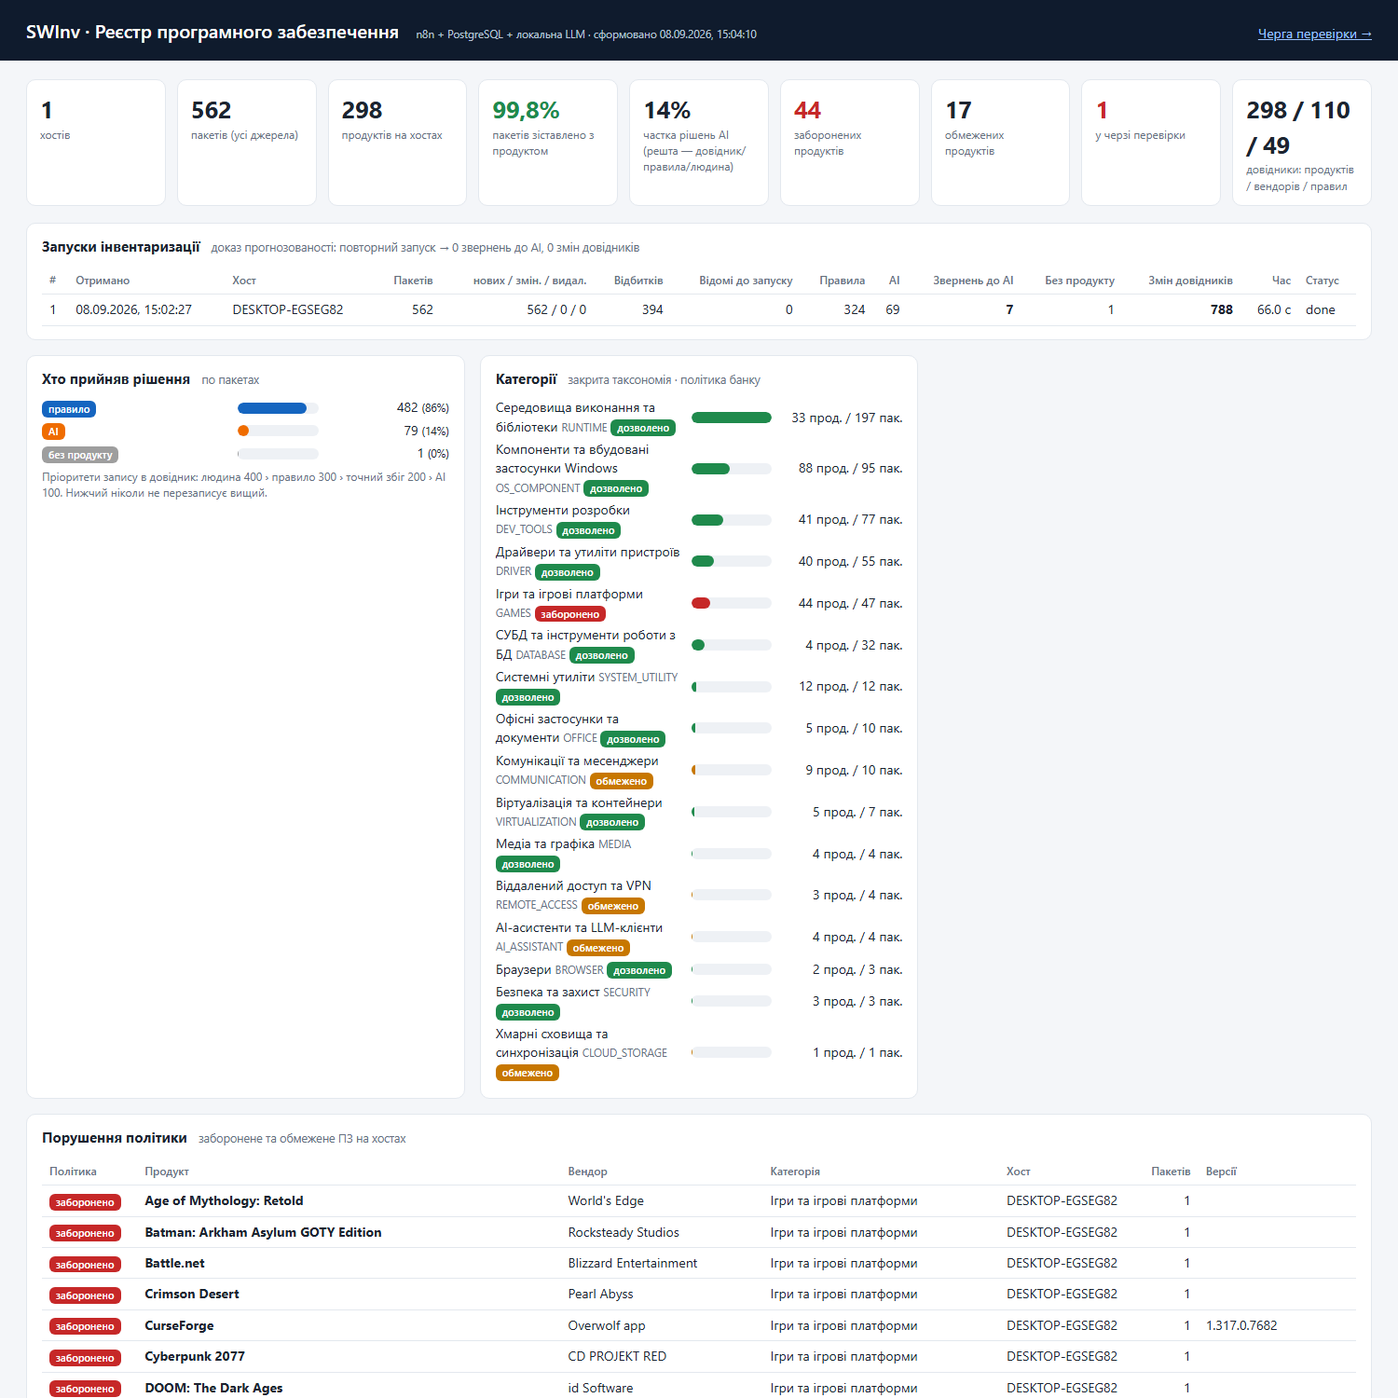
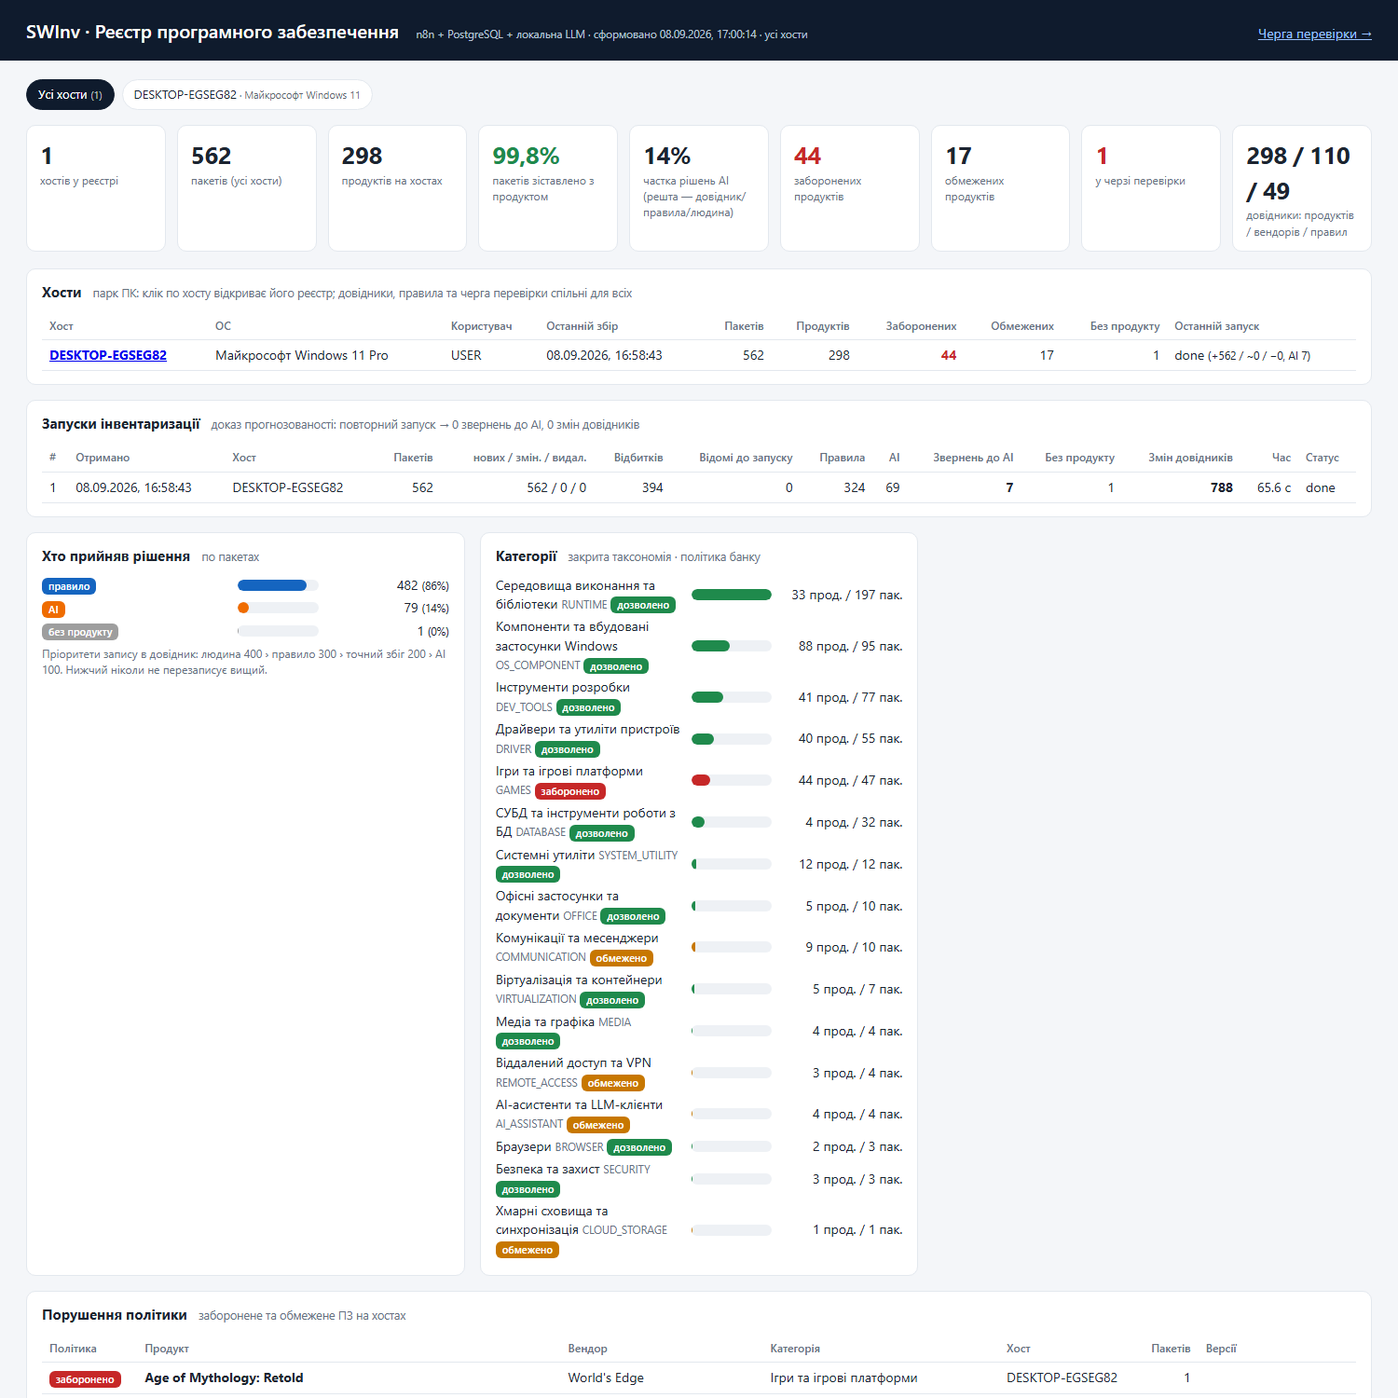
Fleet navigation on the dashboard: host selector, hosts table, per-host change log
- swinv_dashboard(p_host_id) filters host-scoped sections; dictionaries, review queue and audit stay shared
- dashboard: host switcher (?host=<id>), hosts overview table, 'changes since last collection' card
- docs: README fleet screenshot, DEMO/ARCHITECTURE updates

diff --git a/n8n/code/dashboard.js b/n8n/code/dashboard.js
@@ -70,6 +70,27 @@ const vend = (d.vendors_top || []).map(v => `<li>${esc(v.vendor)} <small>— ${n
 
 const aiShare = (() => { const ai = mts.find(x => x.match_type === 'ai'); return ai ? (100 * ai.packages / mtTotal).toFixed(0) : '0'; })();
 
+// ---- парк ПК: селектор хоста, таблиця хостів, зміни за останній збір обраного хоста
+const hosts = d.hosts || [];
+const hostFilter = d.host_filter;
+const host = d.host || null;
+const scopeLabel = host ? `хост ${esc(host.hostname)}` : 'усі хости';
+const hostNav = `<nav class="hosts"><a class="${hostFilter ? '' : 'on'}" href="?">Усі хости <small>(${hosts.length})</small></a>` +
+  hosts.map(h => `<a class="${String(h.id) === String(hostFilter) ? 'on' : ''}" href="?host=${h.id}">${esc(h.hostname)}<small> · ${esc((h.os_name || '').split(' ').slice(0, 3).join(' '))}</small></a>`).join('') + `</nav>`;
+const hostRows = hosts.map(h => { const lr = h.last_run || {}; const zero = lr.status === 'done' && lr.ai_calls === 0 && lr.dict_changes === 0 && lr.added === 0 && lr.changed === 0 && lr.removed === 0;
+  return `<tr class="${String(h.id) === String(hostFilter) ? 'sel' : ''}"><td><a href="?host=${h.id}"><b>${esc(h.hostname)}</b></a></td><td>${esc(h.os_name || '—')}</td><td>${esc(h.last_user || '—')}</td>
+  <td>${dt(h.last_seen)}</td><td class="n">${num(h.packages)}</td><td class="n">${num(h.software)}</td>
+  <td class="n" style="color:${h.prohibited > 0 ? '#c62828' : 'inherit'}"><b>${num(h.prohibited)}</b></td><td class="n">${num(h.restricted)}</td><td class="n">${num(h.unresolved)}</td>
+  <td>${lr.status ? esc(lr.status) : '—'}${zero ? ' · <b>0 змін</b>' : ''}${lr.status ? ` <small>(+${num(lr.added)} / ~${num(lr.changed)} / −${num(lr.removed)}, AI ${num(lr.ai_calls)})</small>` : ''}</td></tr>`; }).join('');
+const ch = d.changes || null;
+const chList = (arr, cls) => (arr || []).map(p => `<li class="${cls}">${esc(p.name)} <small>${esc(p.version_prev ? (p.version_prev + ' → ' + (p.version || '')) : (p.version || ''))} · ${esc(p.source)}${p.publisher ? ' · ' + esc(p.publisher) : ''}</small></li>`).join('');
+const changesCard = host && ch ? `<div class="card wide"><h2>Зміни на хості за останній збір <small>${dt(ch.received_at)} · ${esc(host.os_name || '')} · ${esc(host.manufacturer || '')} ${esc(host.model || '')}</small></h2>
+  <div class="cols">
+   <div><h3>Нові <small>${num((ch.added || []).length)}</small></h3><ul class="chg">${chList(ch.added, 'add') || '<li class="mut">немає</li>'}</ul></div>
+   <div><h3>Змінили версію <small>${num((ch.changed || []).length)}</small></h3><ul class="chg">${chList(ch.changed, 'chg') || '<li class="mut">немає</li>'}</ul></div>
+   <div><h3>Зникли <small>${num((ch.removed || []).length)}</small></h3><ul class="chg">${chList(ch.removed, 'del') || '<li class="mut">немає</li>'}</ul></div>
+  </div><div class="note">Показано до 40 записів у кожній колонці. Зниклі пакети лишаються в історії (present = false), рішення довідника зберігаються.</div></div>` : '';
+
 const html = `<!doctype html><html lang="uk"><head><meta charset="utf-8"><title>SWInv · Реєстр ПЗ</title>
 <meta name="viewport" content="width=device-width, initial-scale=1">
 <style>
@@ -94,14 +115,19 @@ tr.zero td{background:#eefaf1}
 .val{text-align:right;white-space:nowrap}.lbl small{color:var(--mut)}
 code{font:12px ui-monospace,Consolas,monospace;background:#f1f3f6;padding:1px 4px;border-radius:4px}
 .note{color:var(--mut);font-size:12px;margin-top:6px}ul.v{columns:2;margin:0;padding-left:18px}
+nav.hosts{display:flex;flex-wrap:wrap;gap:8px;margin:0 0 16px}nav.hosts a{display:inline-block;padding:6px 12px;border:1px solid var(--line);border-radius:20px;background:var(--card);color:var(--ink);text-decoration:none;font-size:13px}
+nav.hosts a.on{background:#0f1b2d;color:#fff;border-color:#0f1b2d}nav.hosts a small{color:inherit;opacity:.7}
+tr.sel td{background:#eef3ff}.cols{display:grid;grid-template-columns:repeat(3,1fr);gap:14px}.cols h3{margin:4px 0 6px;font-size:13px}.cols h3 small{color:var(--mut);font-weight:400}
+ul.chg{margin:0;padding-left:16px;max-height:320px;overflow:auto}ul.chg li{margin:2px 0}ul.chg li small{color:var(--mut)}li.add{color:#1f8a4c}li.del{color:#c62828}li.chg{color:#c77700}li.mut{color:var(--mut);list-style:none;margin-left:-16px}
 </style></head><body>
-<header><h1>SWInv · Реєстр програмного забезпечення</h1><small>n8n + PostgreSQL + локальна LLM · сформовано ${dt(d.generated_at)}</small>
+<header><h1>SWInv · Реєстр програмного забезпечення</h1><small>n8n + PostgreSQL + локальна LLM · сформовано ${dt(d.generated_at)} · ${scopeLabel}</small>
 <a href="/form/inventory/review">Черга перевірки →</a></header>
 <main>
+${hostNav}
 <div class="kpis">
- <div class="kpi"><div class="v">${num(k.hosts)}</div><div class="l">хостів</div></div>
- <div class="kpi"><div class="v">${num(k.packages)}</div><div class="l">пакетів (усі джерела)</div></div>
- <div class="kpi"><div class="v">${num(k.software_on_hosts)}</div><div class="l">продуктів на хостах</div></div>
+ <div class="kpi"><div class="v">${num(k.hosts)}</div><div class="l">хостів у реєстрі</div></div>
+ <div class="kpi"><div class="v">${num(k.packages)}</div><div class="l">пакетів (${host ? 'цей хост' : 'усі хости'})</div></div>
+ <div class="kpi"><div class="v">${num(k.software_on_hosts)}</div><div class="l">продуктів ${host ? 'на хості' : 'на хостах'}</div></div>
  <div class="kpi ok"><div class="v">${num(k.coverage_pct)}%</div><div class="l">пакетів зіставлено з продуктом</div></div>
  <div class="kpi"><div class="v">${aiShare}%</div><div class="l">частка рішень AI (решта — довідник/правила/людина)</div></div>
  <div class="kpi ${k.violations > 0 ? 'warn' : 'ok'}"><div class="v">${num(k.violations)}</div><div class="l">заборонених продуктів</div></div>
@@ -110,6 +136,10 @@ code{font:12px ui-monospace,Consolas,monospace;background:#f1f3f6;padding:1px 4p
  <div class="kpi"><div class="v">${num(k.software)} / ${num(k.vendors)} / ${num(k.rules)}</div><div class="l">довідники: продуктів / вендорів / правил</div></div>
 </div>
 <div class="grid">
+ <div class="card wide"><h2>Хости <small>парк ПК: клік по хосту відкриває його реєстр; довідники, правила та черга перевірки спільні для всіх</small></h2>
+  <table><thead><tr><th>Хост</th><th>ОС</th><th>Користувач</th><th>Останній збір</th><th class="n">Пакетів</th><th class="n">Продуктів</th><th class="n">Заборонених</th><th class="n">Обмежених</th><th class="n">Без продукту</th><th>Останній запуск</th></tr></thead>
+  <tbody>${hostRows || '<tr><td colspan="10">Хостів ще немає</td></tr>'}</tbody></table></div>
+ ${changesCard}
  <div class="card wide"><h2>Запуски інвентаризації <small>доказ прогнозованості: повторний запуск → 0 звернень до AI, 0 змін довідників</small></h2>
   <table><thead><tr><th>#</th><th>Отримано</th><th>Хост</th><th class="n">Пакетів</th><th class="n">нових / змін. / видал.</th><th class="n">Відбитків</th><th class="n">Відомі до запуску</th><th class="n">Правила</th><th class="n">AI</th><th class="n">Звернень до AI</th><th class="n">Без продукту</th><th class="n">Змін довідників</th><th class="n">Час</th><th>Статус</th></tr></thead>
   <tbody>${runRows || '<tr><td colspan="14">Запусків ще не було — запустіть collector/Collect-Inventory.ps1</td></tr>'}</tbody></table></div>

diff --git a/n8n/build_workflows.py b/n8n/build_workflows.py
@@ -507,7 +507,7 @@ def build_dashboard():
     n_wh = node('Webhook: GET /inventory/dashboard', 'n8n-nodes-base.webhook', 2.1,
                 {"httpMethod": "GET", "path": "inventory/dashboard", "responseMode": "responseNode", "options": {}},
                 0, Y, webhookId="swinv-inventory-dashboard-001")
-    n_data = pg('БД: дані дашборду (один JSON)', "SELECT swinv_dashboard() AS d", None, 260, Y)
+    n_data = pg('БД: дані дашборду (один JSON)', "SELECT swinv_dashboard($1::int) AS d", r"={{ [ ($json.query && $json.query.host && /^\d+$/.test(String($json.query.host))) ? Number($json.query.host) : null ] }}", 260, Y)
     n_render = code('Рендер HTML', JS_RENDER, 520, Y)
     n_resp = node('HTML-відповідь', 'n8n-nodes-base.respondToWebhook', 1.5,
                   {"respondWith": "text", "responseBody": "={{ $json.html }}",
@@ -516,13 +516,13 @@ def build_dashboard():
     n_wh2 = node('Webhook: GET /inventory/api/dashboard', 'n8n-nodes-base.webhook', 2.1,
                  {"httpMethod": "GET", "path": "inventory/api/dashboard", "responseMode": "responseNode", "options": {}},
                  0, Y + 220, webhookId="swinv-inventory-dashboard-api1")
-    n_data2 = pg('БД: дані дашборду (JSON API)', "SELECT swinv_dashboard() AS d", None, 260, Y + 220)
+    n_data2 = pg('БД: дані дашборду (JSON API)', "SELECT swinv_dashboard($1::int) AS d", r"={{ [ ($json.query && $json.query.host && /^\d+$/.test(String($json.query.host))) ? Number($json.query.host) : null ] }}", 260, Y + 220)
     n_resp2 = node('JSON-відповідь', 'n8n-nodes-base.respondToWebhook', 1.5,
                    {"respondWith": "json", "responseBody": "={{ JSON.stringify($json.d) }}",
                     "options": {"responseHeaders": {"entries": [{"name": "Content-Type", "value": "application/json; charset=utf-8"}]}}},
                    520, Y + 220)
     nodes += [n_wh, n_data, n_render, n_resp, n_wh2, n_data2, n_resp2]
-    nodes.append(sticky("## Дашборд реєстру ПЗ\nОдин виклик `swinv_dashboard()` → один JSON → HTML без зовнішніх залежностей (працює офлайн).\nHTML: /webhook/inventory/dashboard · JSON: /webhook/inventory/api/dashboard", -40, Y - 200, 820, 120, 3))
+    nodes.append(sticky("## Дашборд реєстру ПЗ\nОдин виклик `swinv_dashboard()` → один JSON → HTML без зовнішніх залежностей (працює офлайн).\nHTML: /webhook/inventory/dashboard (?host=<id> — один хост) · JSON: /webhook/inventory/api/dashboard", -40, Y - 200, 820, 120, 3))
     c = conns
     connect(c, n_wh['name'], n_data['name'])
     connect(c, n_data['name'], n_render['name'])

diff --git a/README.md b/README.md
@@ -7,8 +7,13 @@
 - **Прогнозованість, яку видно.** Повторний запуск на тому ж ПК: 0 нових / 0 змінених / 0 видалених, 0 звернень до AI, 0 змін довідників — рядок підсвічено зеленим на дашборді.
 - **Довідники живуть у БД і оновлюються за правилами.** Пріоритети рішень human 400 › seed 350 › rule 300 › exact 200 › ai 100, upsert із захистом від пониження, аудит кожної зміни тригером БД, рішення людини перетворюються на правила.
 - **On-prem за замовчуванням.** qwen2.5:14b на локальній GPU, temperature 0, JSON-режим; дані не залишають машину. Перехід на хмарну модель — одна нода на канвасі (вже стоїть поруч, вимкнена).
+- **Парк ПК, а не один хост.** Windows- і Linux/macOS-колектори з одним контрактом, спільні довідники; дашборд має перемикач хостів, таблицю парку і блок «що змінилось на хості за останній збір».
 
 ![Дашборд SWInv](docs/dashboard.png)
+
+Парк із двох хостів (Windows + Linux-контейнер) на одному дашборді зі спільними довідниками:
+
+![Дашборд SWInv: парк хостів](docs/dashboard-hosts.png)
 
 ---
 
@@ -95,8 +100,8 @@ GPU для Ollama вмикається окремим файлом `docker-compo
 | Що | URL |
 |---|---|
 | Редактор n8n | http://localhost:5678 — логін `admin@swinv.local`, пароль у `.env` (`N8N_OWNER_PASSWORD`) |
-| Дашборд (HTML) | http://localhost:5678/webhook/inventory/dashboard |
-| Дашборд (JSON API) | http://localhost:5678/webhook/inventory/api/dashboard |
+| Дашборд (HTML) | http://localhost:5678/webhook/inventory/dashboard — увесь парк; `?host=<id>` — один ПК із блоком змін за останній збір |
+| Дашборд (JSON API) | http://localhost:5678/webhook/inventory/api/dashboard (той самий параметр `host`) |
 | Форма перевірки | http://localhost:5678/form/inventory/review |
 | Ollama API | http://localhost:11434 |
 | PostgreSQL | `localhost:5432`, користувач/пароль з `.env`, БД `inventory` |

diff --git a/docs/ARCHITECTURE.md b/docs/ARCHITECTURE.md
@@ -84,7 +84,7 @@ X-Inventory-Token: <INVENTORY_WEBHOOK_TOKEN>
 | `swinv_ai_failed(run_id, host_id, batch jsonb, reason, error)` | Батч у чергу з `ai_unavailable` / `invalid_output`; `ai_batches_failed`; запуск не падає |
 | `swinv_finalize_run(run_id)` | `unresolved`, `dict_changes` (= рядків аудиту з цим `run_id`), `duration_ms`, статус `done`, підсумковий JSON |
 | `swinv_apply_human_decision(review_id, software, vendor, category, is_component, create_rule, actor)` | Рішення людини: продукт (може змінити категорію), зіставлення `human=400`, опційне правило `^назва$` з `priority 500`/`origin human`, закриття записів черги з цим відбитком |
-| `swinv_dashboard()` | Один JSON для дашборду: KPI, 12 останніх запусків, розподіл рішень, категорії з політиками, порушення, топ продуктів, черга, аудит, правила, джерела, вендори |
+| `swinv_dashboard(p_host_id int DEFAULT NULL)` | Один JSON для дашборду (NULL — увесь парк, інакше один хост; довідники, черга й аудит завжди спільні): перелік хостів із підсумками, зміни обраного хоста за останній збір, KPI, 12 останніх запусків, розподіл рішень, категорії з політиками, порушення, топ продуктів, черга, аудит, правила, джерела, вендори |
 
 Подання: `v_inventory_current` → `v_software_by_host` → `v_policy_violations` (`policy IN ('prohibited','restricted')`, з урахуванням `dict_software.policy_override`).
 
@@ -157,7 +157,7 @@ sequenceDiagram
         end
     end
     W->>DB: swinv_finalize_run() → status done, dict_changes, duration_ms
-    U->>DB: swinv_dashboard() — HTML / JSON
+    U->>DB: swinv_dashboard(host_id?) — HTML / JSON
     U->>DB: swinv_apply_human_decision() — human=400, правило 500, аудит
 ```
 

diff --git a/docs/DEMO.md b/docs/DEMO.md
@@ -46,6 +46,7 @@ reg delete "HKCU\Software\Microsoft\Windows\CurrentVersion\Uninstall\SWInvDemoAp
 
 Вкладка 1. Пройти зверху вниз, не читаючи все:
 
+- Зверху — перемикач хостів («Усі хости» / кожен ПК) і картка «Хости»: парк одним поглядом (ОС, останній збір, пакетів, продуктів, заборонених, статус останнього запуску). Клік по хосту фільтрує всі картки нижче і додає блок «Зміни на хості за останній збір» (нові / змінили версію / зникли). Довідники, правила й черга перевірки спільні для всього парку.
 - KPI: **1 хост · 562 пакети · ≈ 298 продуктів · покриття ~100 % · частка рішень AI · заборонених / обмежених · у черзі перевірки · довідники (продуктів / вендорів / правил)**.
 - Таблиця «Запуски інвентаризації»: перший запуск — `Правила 324`, `AI 69`, `Звернень до AI 7`, `Змін довідників 788`, 66 с. Другий — **зелений рядок**: `0 / 0 / 0`, `Відомі до запуску 393` (один відбиток чекає на людину), `Звернень до AI 0`, `Змін довідників 0`.
 - Картка «Хто прийняв рішення»: більшість пакетів закрили правила й довідник, AI — меншість.
